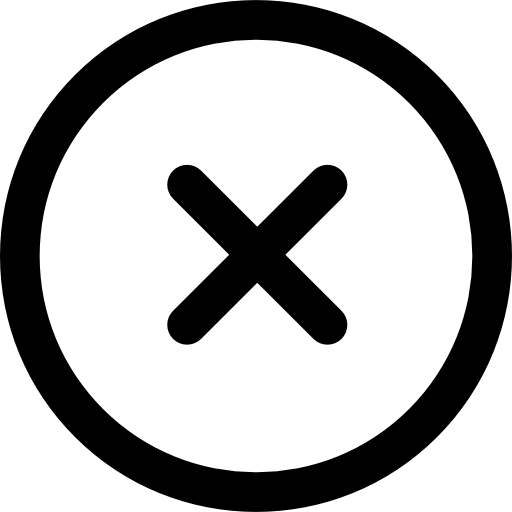
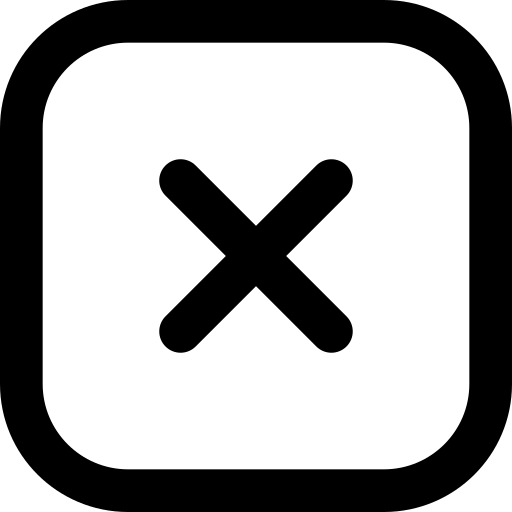
4.2
files are easier to work on + close button edited  + corrections

diff --git a/css/card_contents.css b/css/card_contents.css
@@ -1,0 +1,58 @@
+/* CLOSE BUTTON  */
+.close_button {
+    position: absolute;
+    top: 15px; 
+    right: 15px; 
+    background-color: transparent;
+    border: none;
+    outline: none;
+    cursor: pointer;
+    padding: 1px;
+    border-radius: 10px;
+    transition: background-color 0.3s ease-in-out;
+}
+.close_button img{
+    width: 40px;
+    height: 40px;
+    border-radius: 10px;
+    transition: 0.2s;
+}
+.close_button img:hover {
+    background-color: rgba(119, 1, 1, 0.514);
+}
+/* BLOG POSTS */
+#feedback_content_active{
+    animation: fadeIn 1s ease;
+}
+#motivation_content_active{
+    animation: fadeIn 1s ease;
+}
+#swot_content_read{
+    animation: fadeIn 1s ease;
+}
+#experience_content_active{
+    animation: fadeIn 1s ease;
+}
+#first_content_active{
+    animation: fadeIn 1s ease;
+}
+.read_more{
+    padding: 5px 20px 5px 20px;
+    font-size: 20px;
+    background-color: #e7e7e700;
+    color: white;
+    text-decoration: underline;
+    border: none;
+    outline: none;
+    cursor: pointer;
+    border-radius: 16px;
+    margin-left: 1%;
+    margin-top: -11%;
+    display: inline-block;
+    transition: 0.6s;
+}
+.read_more:hover{
+    background-color: rgba(255, 255, 255, 0.103);
+    color: black;
+}
+/*   */

diff --git a/card_scripts.js b/card_scripts.js
@@ -31,23 +31,23 @@ document.getElementById("blog_card_closer").addEventListener("click" , () =>{
 
 document.getElementById("feedback_blog_read").addEventListener("click", () => {
     let content = document.getElementById("feedback_content_active");
-    displayBlogContent(content)
+    displayBlogContent(content);
 });
 document.getElementById("blog_motivation_read").addEventListener("click", () => {
     let content = document.getElementById("motivation_content_active");
-    displayBlogContent(content)
+    displayBlogContent(content);
 });
 document.getElementById("blog_swot_read").addEventListener("click", () => {
     let content = document.getElementById("swot_content_read");
-    displayBlogContent(content)
+    displayBlogContent(content);
 });
 document.getElementById("blog_experience_read").addEventListener("click", () => {
     let content = document.getElementById("experience_content_active");
-    displayBlogContent(content)
+    displayBlogContent(content);
 });
 document.getElementById("blog_first_read").addEventListener("click", () => {
     let content = document.getElementById("first_content_active");
-    displayBlogContent(content)
+    displayBlogContent(content);
 });
 
 function displayBlogContent(element){

diff --git a/css/cards_aside.css b/css/cards_aside.css
@@ -33,7 +33,6 @@
     padding-top: 2%;
     transition: 0.4s;
     backdrop-filter: blur(7px);
-
     animation: fadeIn 1s ease;
 }
 #faq_card.active{
@@ -304,25 +303,6 @@ aside li {
 }
 .post h2{display: inline-block;}
 
-.read_more{
-    padding: 5px 20px 5px 20px;
-    font-size: 20px;
-    background-color: #e7e7e733;
-    color: white;
-    text-decoration: underline;
-    border: none;
-    outline: none;
-    cursor: pointer;
-    border-radius: 16px;
-    margin-left: 1%;
-    margin-top: -11%;
-    display: inline-block;
-    transition: 0.3s;
-}
-.read_more:hover{
-    background-color: rgba(6, 88, 99, 0);
-    color: black;
-}
 
 
 

diff --git a/index.html b/index.html
@@ -4,9 +4,9 @@
     <meta charset="UTF-8">
     <meta name="viewport" content="width=device-width, initial-scale=1.0">
     <title>Home</title>
-    <link rel="stylesheet" href="/index.css">
-    <link rel="stylesheet" href="cards_aside.css">
-    <link rel="stylesheet" href="card_contents.css">
+    <link rel="stylesheet" href="css/index.css">
+    <link rel="stylesheet" href="css/cards_aside.css">
+    <link rel="stylesheet" href="css/card_contents.css">
 </head>
 
 <body>

diff --git a/css/index.css b/css/index.css
@@ -8,7 +8,7 @@
 body {
     font-family: Arial, sans-serif;
     background-color: #2b2b2b6c;
-    background-image: url("images/background.png");
+    background-image: url("/images/background.png");
     background-size: 100% auto;
     background-repeat: no-repeat;
     background-attachment: fixed;
